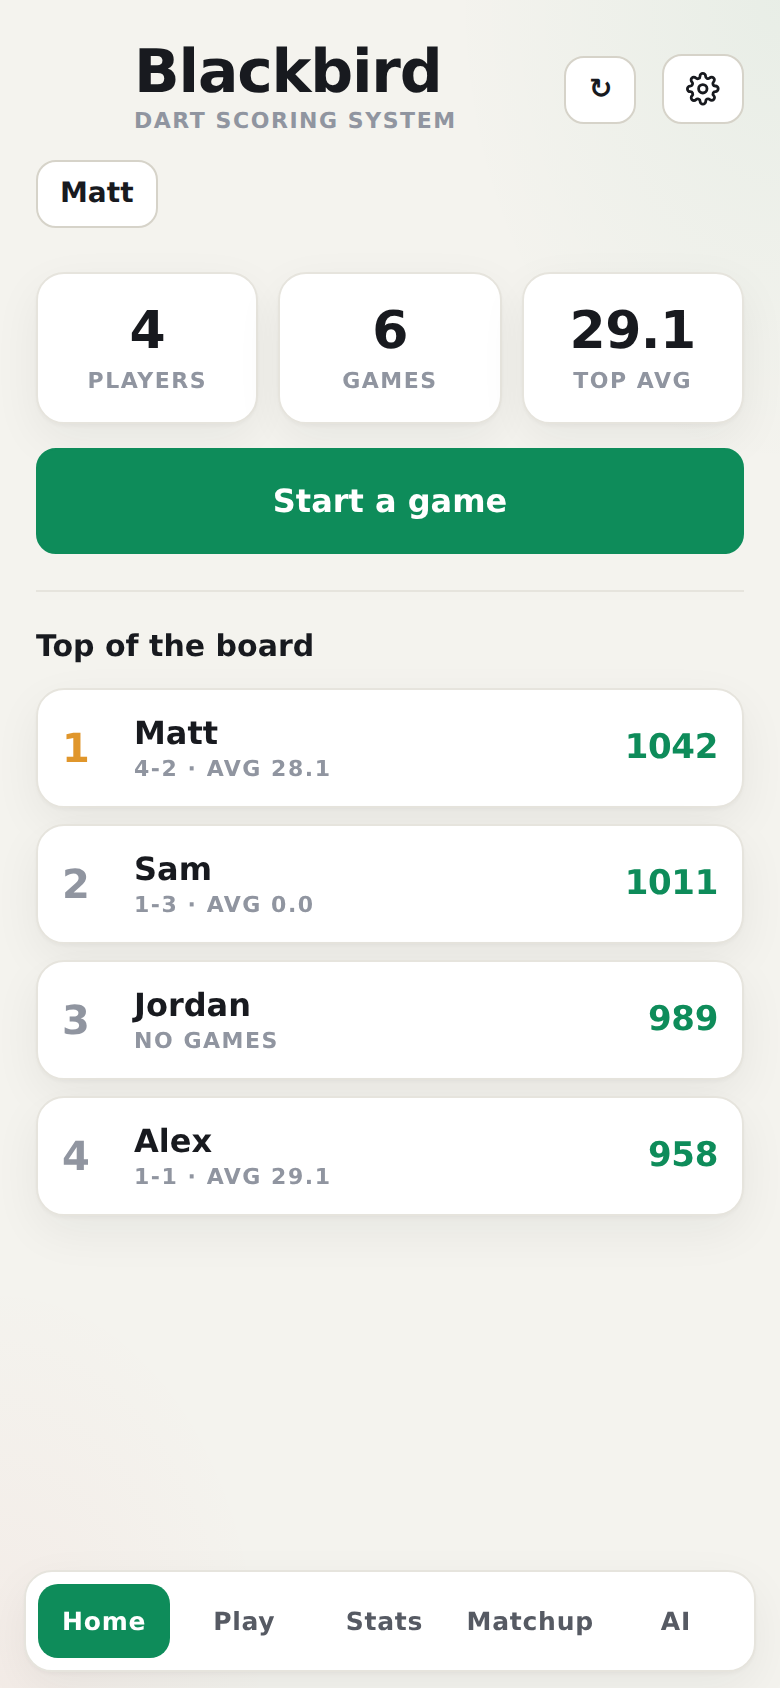
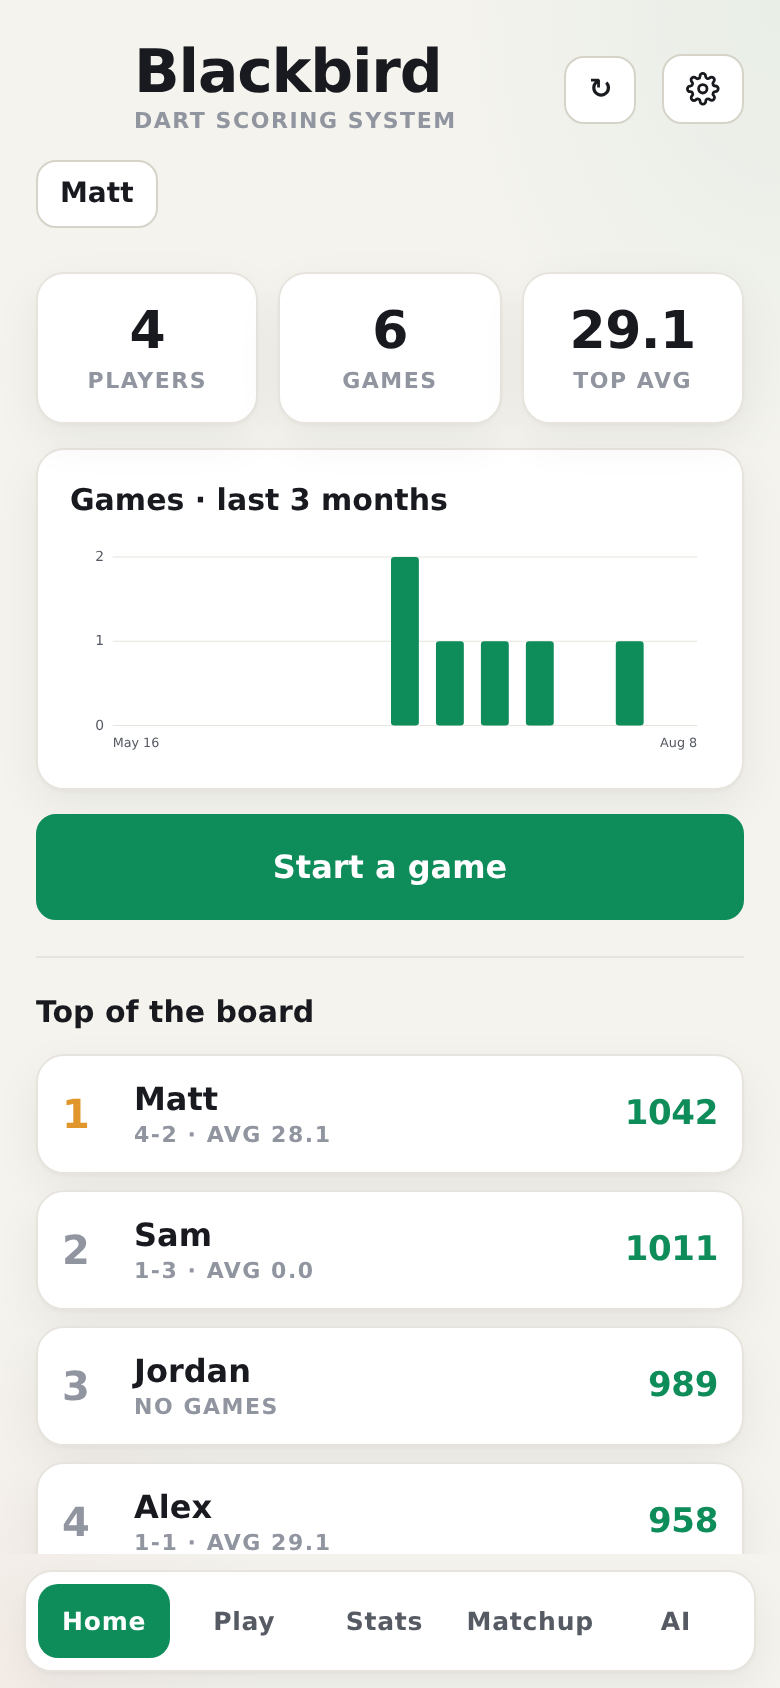
Add games-per-week bar chart to the home page
New dependency-free BarChart (same visual style as LineChart) showing
unique games played per week over the last 13 weeks, rendered directly
under the Players/Games/Top-avg tiles. README and home screenshot
updated.

Claude-Session: https://claude.ai/code/session_01QARoeoGxiKuoxC6n1iZQd3

diff --git a/components/Charts.js b/components/Charts.js
@@ -109,3 +109,72 @@ export function LineChart({ data, color = "var(--accent)", unit = "", decimals =
     </svg>
   );
 }
+
+/**
+ * Matching dependency-free SVG bar chart. Same frame/axis style as
+ * LineChart. data: [{ x:number, y:number, date?:string }] — one bar per
+ * point (used on Home for games per week over the last 3 months).
+ */
+export function BarChart({ data, color = "var(--accent)" }) {
+  if (!data || data.length === 0 || !data.some((d) => d.y > 0)) {
+    return (
+      <p className="tag" style={{ textTransform: "none", letterSpacing: 0, margin: "6px 0" }}>
+        No games in this period yet.
+      </p>
+    );
+  }
+
+  const W = 600;
+  const H = 200;
+  const padL = 40;
+  const padR = 12;
+  const padT = 14;
+  const padB = 28;
+
+  const maxY = Math.max(1, ...data.map((d) => d.y));
+  const sy = (v) => padT + (1 - v / maxY) * (H - padT - padB);
+  const slot = (W - padL - padR) / data.length;
+  const bw = Math.min(slot * 0.62, 34);
+
+  const mid = Math.round(maxY / 2);
+  const ticks = mid > 0 && mid < maxY ? [maxY, mid, 0] : [maxY, 0];
+
+  const fmtDate = (iso) => {
+    if (!iso) return "";
+    try {
+      return new Date(iso).toLocaleDateString(undefined, { month: "short", day: "numeric" });
+    } catch {
+      return "";
+    }
+  };
+
+  return (
+    <svg viewBox={`0 0 ${W} ${H}`} width="100%" role="img" style={{ display: "block" }}>
+      {ticks.map((t, i) => (
+        <g key={i}>
+          <line x1={padL} x2={W - padR} y1={sy(t)} y2={sy(t)} stroke="var(--line)" strokeWidth="1" />
+          <text x={padL - 8} y={sy(t) + 4} textAnchor="end" fontSize="13" fill="var(--ink-soft)">
+            {t}
+          </text>
+        </g>
+      ))}
+
+      {data.map((d, i) => {
+        const x = padL + i * slot + (slot - bw) / 2;
+        const y = sy(d.y);
+        const h = Math.max(0, H - padB - y);
+        if (h === 0) return null;
+        return <rect key={i} x={x} y={y} width={bw} height={h} rx="3" fill={color} />;
+      })}
+
+      <text x={padL} y={H - 8} textAnchor="start" fontSize="12" fill="var(--ink-soft)">
+        {fmtDate(data[0].date)}
+      </text>
+      {data.length > 1 && (
+        <text x={W - padR} y={H - 8} textAnchor="end" fontSize="12" fill="var(--ink-soft)">
+          {fmtDate(data[data.length - 1].date)}
+        </text>
+      )}
+    </svg>
+  );
+}

diff --git a/components/Home.js b/components/Home.js
@@ -1,8 +1,34 @@
 import { Stat } from "./ui";
+import { BarChart } from "./Charts";
 import { BASE_ELO } from "@/lib/constants";
 
-export default function Home({ setView, stats, elo, players, gameCount, openProfile }) {
+const WEEK_MS = 7 * 24 * 60 * 60 * 1000;
+const WEEKS = 13; // ~3 months
+
+/** Unique games per week over the last ~3 months, oldest bucket first. */
+function gamesPerWeek(results) {
+  const seen = new Map(); // gameId -> completion date
+  for (const r of results) {
+    if (r.gameId && !seen.has(r.gameId)) seen.set(r.gameId, new Date(r.completedAt));
+  }
+  const now = new Date();
+  const end = new Date(now.getFullYear(), now.getMonth(), now.getDate() + 1); // tomorrow 00:00
+  const buckets = Array.from({ length: WEEKS }, (_, i) => ({
+    x: i + 1,
+    y: 0,
+    date: new Date(end.getTime() - (WEEKS - i) * WEEK_MS).toISOString(),
+  }));
+  for (const d of seen.values()) {
+    const weeksAgo = Math.floor((end.getTime() - d.getTime()) / WEEK_MS);
+    const idx = WEEKS - 1 - weeksAgo;
+    if (idx >= 0 && idx < WEEKS) buckets[idx].y++;
+  }
+  return buckets;
+}
+
+export default function Home({ setView, stats, elo, players, gameCount, results, openProfile }) {
   const visible = players.filter((p) => !p.hidden);
+  const weekly = gamesPerWeek(results || []);
   const ranked = visible
     .map((p) => ({ u: p.username, elo: elo[p.username] || BASE_ELO, s: stats[p.username] }))
     .sort((a, b) => b.elo - a.elo);
@@ -17,6 +43,11 @@ export default function Home({ setView, stats, elo, players, gameCount, openProf
         <Stat label="Players" value={visible.length} />
         <Stat label="Games" value={gameCount} />
         <Stat label="Top avg" value={topAvg ? topAvg.toFixed(1) : "—"} />
+      </div>
+
+      <div className="card mb-12">
+        <h3 className="section-title">Games · last 3 months</h3>
+        <BarChart data={weekly} />
       </div>
 
       <button

diff --git a/app/page.js b/app/page.js
@@ -263,7 +263,7 @@ export default function Page() {
         )}
 
         {view === "home" && (
-          <Home setView={setView} stats={stats} elo={elo} players={players} gameCount={gameCount} openProfile={openProfile} />
+          <Home setView={setView} stats={stats} elo={elo} players={players} gameCount={gameCount} results={results} openProfile={openProfile} />
         )}
         {view === "setup" && (
           <Setup

diff --git a/README.md b/README.md
@@ -17,7 +17,7 @@ localStorage — Postgres is the single source of truth.
 
 | Loading screen | Loading (dark) | Home |
 |:---:|:---:|:---:|
-| <img src="docs/screenshots/loading-light.png" width="240" alt="Blackbird splash: wordmark with spinning dartboard wheel, light theme"> | <img src="docs/screenshots/loading-dark.png" width="240" alt="Blackbird splash: wordmark with spinning dartboard wheel, dark theme"> | <img src="docs/screenshots/home.png" width="240" alt="Home view with quick stats and top players"> |
+| <img src="docs/screenshots/loading-light.png" width="240" alt="Blackbird splash: wordmark with spinning dartboard wheel, light theme"> | <img src="docs/screenshots/loading-dark.png" width="240" alt="Blackbird splash: wordmark with spinning dartboard wheel, dark theme"> | <img src="docs/screenshots/home.png" width="240" alt="Home view with quick stats, games-per-week chart, and top players"> |
 
 | Live cricket (MPR column) | Cricket leaderboard | Game setup |
 |:---:|:---:|:---:|
@@ -37,6 +37,8 @@ localStorage — Postgres is the single source of truth.
 - **Cricket MPR**: live **marks-per-round** for every player while the game is
   being played, per-round mark history saved with each game, career MPR and
   best-game MPR on profiles, and an MPR-over-time chart.
+- **Home dashboard**: player/game/top-average tiles plus a bar chart of
+  games played per week over the last 3 months.
 - **Stats**: win %, 3-dart average (overall and per dart position), highest
   turn, best leg, highest checkout, MPR, average runs, and more.
 - **Elo**: every multi-player game updates a shared Elo rating; the Matchup tab
